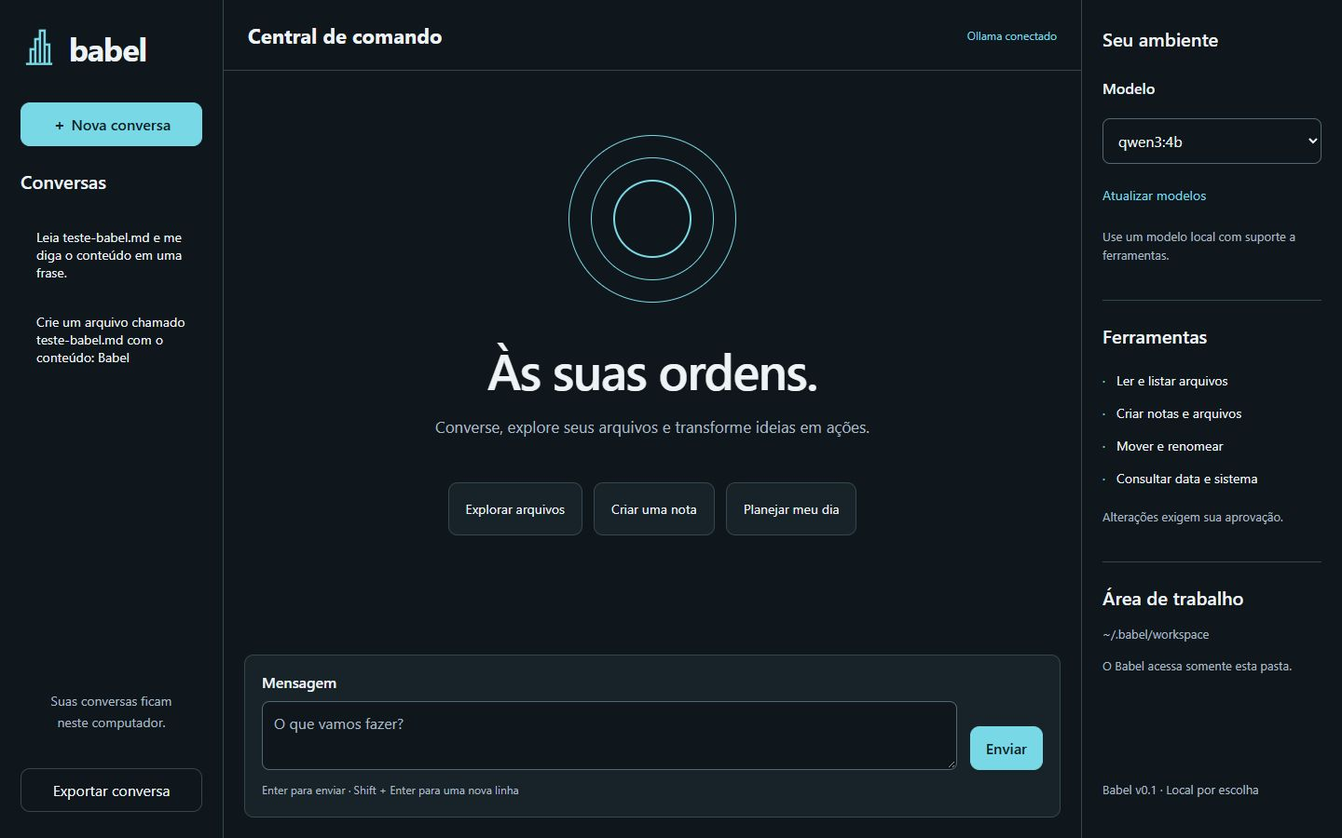
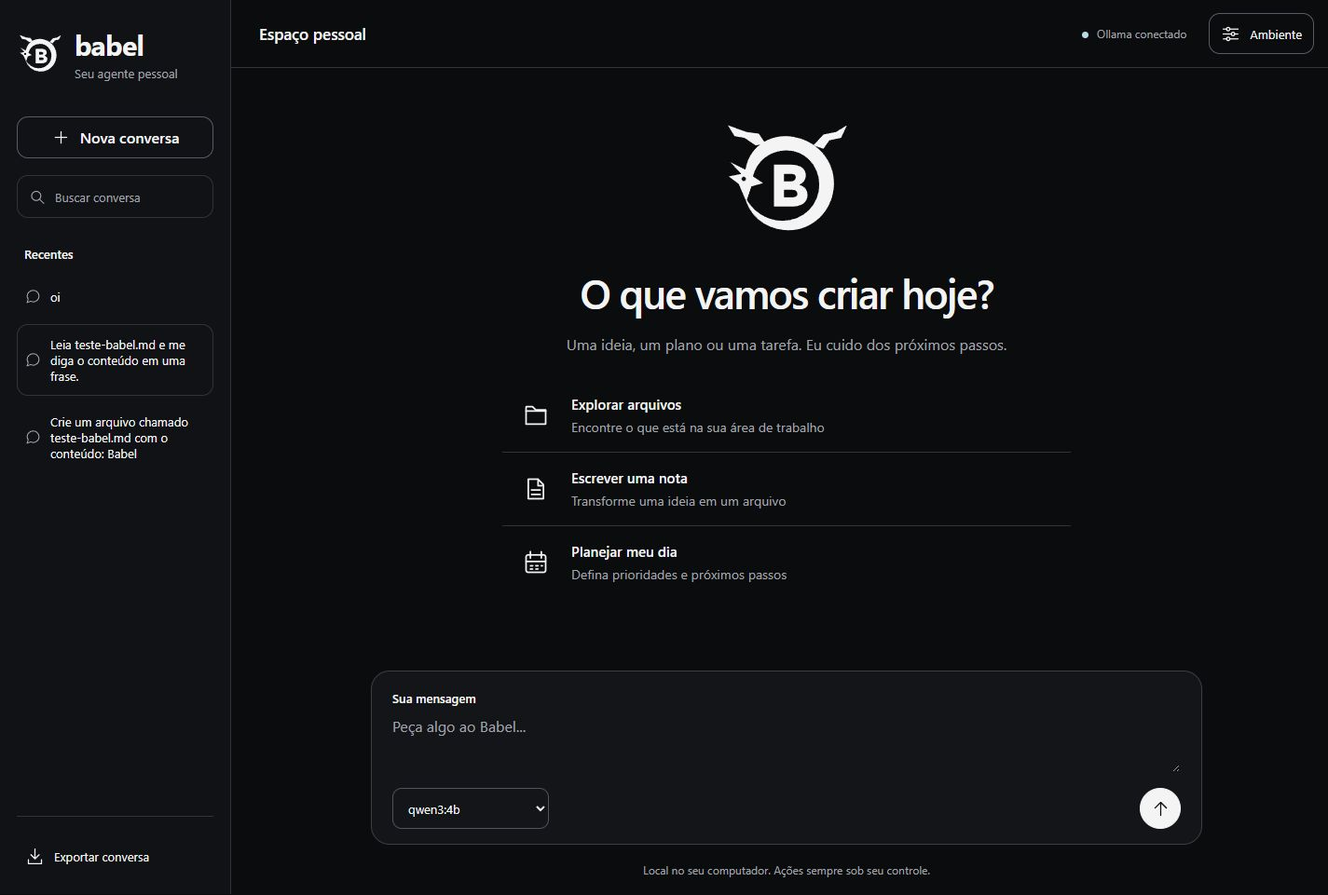
design: reformula Babel com identidade ouroboros e interface monocromatica

diff --git a/babel_agent/web/style.css b/babel_agent/web/style.css
@@ -1,6 +1,153 @@
-:root{color-scheme:dark;--bg:#10171c;--panel:#182229;--ink:#eef4f6;--muted:#aabac3;--line:#34464f;--accent:#79d8e5;--error:#ffb5a9;--radius:10px;font-family:"Segoe UI",system-ui,sans-serif;color:var(--ink);background:var(--bg)}
-*{box-sizing:border-box}body{margin:0;display:grid;grid-template-columns:240px minmax(0,1fr) 280px;min-height:100dvh}button,textarea,select{font:inherit}button,select{min-height:44px}button{cursor:pointer;border:1px solid var(--line);border-radius:var(--radius);padding:12px 16px;color:var(--ink);background:var(--panel);transition:background .18s,border-color .18s}button:hover{border-color:var(--accent);background:#24343d}button:active{background:#30434d}button:disabled{opacity:.5;cursor:wait}button.primary{background:var(--accent);color:#092027;border-color:var(--accent);font-weight:600}button.primary:hover{background:#a1e7f0}button.secondary{background:transparent}button.text-button{padding:8px 0;border:0;background:none;color:var(--accent);text-align:left;font-size:14px}button:focus-visible,a:focus-visible,textarea:focus-visible,select:focus-visible{outline:2px solid var(--accent);outline-offset:4px}h1,h2,p{margin-top:0}h2{font-size:20px;font-weight:600}p{color:var(--muted);line-height:1.6}aside{padding:28px 22px}.sidebar{border-right:1px solid var(--line);display:flex;flex-direction:column;gap:24px;max-height:100dvh;position:sticky;top:0}.brand{font-size:34px;font-weight:650;display:flex;gap:12px;align-items:center;color:var(--ink);text-decoration:none;letter-spacing:-1px;margin-bottom:10px}.sidebar h2{margin:0}.sidebar nav{display:flex;flex-direction:column;gap:8px;overflow:auto}.sidebar nav button{text-align:left;overflow-wrap:anywhere;background:none;border-color:transparent;font-size:14px}.sidebar nav button[aria-current=true]{background:var(--panel);border-color:var(--line)}.privacy{margin-top:auto;font-size:14px;text-align:center;padding-top:24px}main{display:flex;flex-direction:column;min-width:0;min-height:100dvh}header{min-height:76px;padding:20px 26px;border-bottom:1px solid var(--line);display:flex;align-items:center;justify-content:space-between;gap:12px}header h1{font-size:22px;margin:0}#status{font-size:12px;color:var(--muted)}#status.online{color:var(--accent)}#conversation{flex:1;padding:24px 30px;min-height:500px}#welcome{min-height:520px;display:flex;align-items:center;justify-content:center;flex-direction:column;text-align:center;padding:28px 0}#welcome[hidden]{display:none}.core{width:180px;height:180px;position:relative;margin-bottom:36px}.core i{border:1px solid var(--accent);border-radius:50%;position:absolute;inset:0}.core i:nth-child(2){inset:24px}.core i:nth-child(3){inset:48px;border-width:2px}#welcome h2{font-size:clamp(36px,4vw,54px);letter-spacing:-1.5px;margin-bottom:12px}#welcome p{max-width:520px;font-size:17px}.suggestions{display:flex;gap:12px;margin-top:28px;flex-wrap:wrap;justify-content:center}.suggestions button{font-size:14px;padding:18px}#composer{margin:0 22px 22px;padding:18px;background:var(--panel);border:1px solid var(--line);border-radius:var(--radius)}label{display:block;margin-bottom:10px;font-weight:600}.input-row{display:flex;align-items:flex-end;gap:14px}textarea,select{color:var(--ink);background:var(--bg);border:1px solid #526671;border-radius:8px;padding:12px;min-width:0}textarea{width:100%;resize:vertical;min-height:74px;max-height:240px}textarea::placeholder{color:var(--muted)}#feedback{font-size:12px;margin:12px 0 0;min-height:20px}#feedback.error{color:var(--error)}.environment{border-left:1px solid var(--line);display:flex;flex-direction:column;gap:12px}.environment select{width:100%}.environment section{border-top:1px solid var(--line);padding-top:24px;margin-top:12px}.environment p{font-size:13px;overflow-wrap:anywhere}.environment ul{list-style:none;padding:0;line-height:2.5;font-size:14px}.environment li::before{content:'·';color:var(--accent);margin-right:12px}.version{margin-top:auto;padding-top:36px}.message{margin:0 auto 24px;max-width:800px;overflow-wrap:anywhere}.message h3{font-size:13px;color:var(--accent);margin:0 0 10px}.message .content{white-space:pre-wrap;line-height:1.7;font-size:15px}.message.user{background:var(--panel);padding:18px;border-radius:var(--radius)}.message.user h3{color:var(--muted)}details{border-left:2px solid var(--line);padding:8px 14px;margin:12px 0;color:var(--muted);font-size:13px}summary{cursor:pointer;min-height:32px}pre{white-space:pre-wrap;overflow-wrap:anywhere;font-size:13px;max-height:360px;overflow:auto}#approval{border:1px solid var(--accent);border-radius:var(--radius);padding:22px;margin:24px 0;background:var(--panel)}#approval p{font-size:14px}#approval .actions{display:flex;gap:12px}.skip{position:absolute;top:-80px;left:12px;padding:12px;z-index:5;background:var(--accent);color:var(--bg)}.skip:focus{top:12px}
-@media(min-width:1600px){#welcome{min-height:640px}}
-@media(max-width:1150px){body{grid-template-columns:200px minmax(0,1fr)}.environment{grid-column:1/-1;border-left:0;border-top:1px solid var(--line);display:grid;grid-template-columns:1fr 1fr;gap:16px 32px}.environment section{margin:0}.environment h2,.environment label,.environment select,.environment .text-button,.environment #model-help{grid-column:1}.environment section{grid-column:2}.environment .version{padding:0}.sidebar{padding:24px 16px}header{flex-wrap:wrap}}
-@media(max-width:650px){body{display:block}.sidebar{position:static;max-height:none;display:grid;grid-template-columns:1fr 1fr;padding:16px;gap:12px;border-right:0;border-bottom:1px solid var(--line)}.brand{font-size:26px;margin:0}.brand img{width:28px;height:36px}.sidebar h2,.privacy{display:none}.sidebar nav{grid-column:1/-1;max-height:140px}.sidebar #export{grid-column:1/-1}main{min-height:78dvh}header{padding:18px}header h1{font-size:20px}#conversation{padding:18px;min-height:360px}#welcome{min-height:440px;padding-top:18px}.core{width:120px;height:120px;margin-bottom:24px}.core i:nth-child(2){inset:16px}.core i:nth-child(3){inset:32px}.suggestions{gap:8px;margin-top:16px;width:100%}.suggestions button{width:100%;padding:12px}#composer{margin:0 16px 16px;padding:14px}.input-row{flex-direction:column;align-items:stretch}.environment{display:block;padding:24px}.environment section{margin-top:24px}#approval .actions{flex-direction:column}}
-@media(prefers-reduced-motion:reduce){*{transition:none!important;scroll-behavior:auto!important}}
+:root {
+  color-scheme: dark;
+  --bg: #0b0c0e;
+  --panel: #131518;
+  --hover: #1d2025;
+  --ink: #f4f4f5;
+  --muted: #a2a5ad;
+  --line: #303339;
+  --accent: #b6dce3;
+  --error: #ffb5a9;
+  --radius: 12px;
+  font-family: "Segoe UI", system-ui, sans-serif;
+  color: var(--ink);
+  background: var(--bg);
+  font-synthesis: none;
+}
+* { box-sizing: border-box; }
+body { margin: 0; display: grid; grid-template-columns: 248px minmax(0, 1fr); min-height: 100dvh; }
+button, textarea, select, input { font: inherit; }
+button, select, input { min-height: 44px; }
+button { cursor: pointer; border: 1px solid transparent; border-radius: var(--radius); padding: 11px 16px; color: var(--ink); background: var(--panel); display: inline-flex; align-items: center; justify-content: center; gap: 10px; transition: background .18s, border-color .18s; }
+button:hover { background: var(--hover); border-color: #555a63; }
+button:active { background: #2a2e35; }
+button:disabled { opacity: .45; cursor: not-allowed; }
+button.primary, .send { background: var(--ink); color: var(--bg); border-color: var(--ink); font-weight: 600; }
+button.primary:hover, .send:hover { background: #d9dce1; }
+button.outline { border-color: #565b65; background: transparent; }
+button.outline:hover { background: var(--hover); border-color: var(--ink); }
+button.quiet { background: transparent; justify-content: flex-start; }
+button.icon-button { padding: 10px; background: transparent; }
+button:focus-visible, a:focus-visible, textarea:focus-visible, select:focus-visible, input:focus-visible, summary:focus-visible { outline: 2px solid var(--accent); outline-offset: 4px; }
+h1, h2, h3, p { margin-top: 0; }
+p { color: var(--muted); line-height: 1.65; }
+.icon { width: 21px; height: 21px; flex-shrink: 0; fill: none; stroke: currentColor; stroke-width: 1.5; stroke-linecap: round; stroke-linejoin: round; }
+.icon-library { position: absolute; width: 0; height: 0; overflow: hidden; }
+.sidebar { border-right: 1px solid var(--line); background: #101215; padding: 28px 18px 18px; display: flex; flex-direction: column; height: 100dvh; position: sticky; top: 0; }
+.brand { display: flex; gap: 12px; align-items: center; color: var(--ink); text-decoration: none; margin-bottom: 38px; }
+.brand span { font-size: 30px; font-weight: 650; letter-spacing: -.7px; }
+.brand small { display: block; font-size: 13px; font-weight: 400; letter-spacing: 0; color: var(--muted); margin-top: 2px; }
+#new { width: 100%; margin-bottom: 18px; font-weight: 550; }
+.sr-only { position: absolute; width: 1px; height: 1px; padding: 0; overflow: hidden; clip-path: inset(50%); white-space: nowrap; }
+.search-field { display: flex; align-items: center; gap: 8px; border: 1px solid var(--line); border-radius: var(--radius); padding: 0 12px; margin-bottom: 30px; }
+.search-field .icon { color: var(--muted); width: 18px; }
+.search-field input { border: 0; background: none; color: var(--ink); width: 100%; min-width: 0; font-size: 13px; }
+.search-field input::placeholder { color: var(--muted); }
+.section-label { font-size: 13px; font-weight: 600; margin: 0 8px 14px; }
+.sidebar nav { display: flex; flex-direction: column; gap: 6px; overflow: auto; }
+.sidebar nav button { width: 100%; text-align: left; justify-content: flex-start; overflow-wrap: anywhere; background: transparent; font-size: 13px; padding: 12px 8px; }
+.sidebar nav button .icon { width: 17px; color: var(--muted); }
+.sidebar nav button[aria-current=true] { background: var(--hover); }
+.empty-history { padding: 8px; font-size: 13px; }
+.sidebar-footer { margin-top: auto; padding-top: 20px; border-top: 1px solid var(--line); }
+.sidebar-footer button { width: 100%; font-size: 13px; padding-left: 8px; }
+main { min-width: 0; }
+.topbar { min-height: 72px; padding: 14px 30px; border-bottom: 1px solid var(--line); display: flex; align-items: center; gap: 16px; }
+.topbar h1 { font-size: 17px; font-weight: 550; margin: 0; flex: 1; min-width: 0; overflow: hidden; text-overflow: ellipsis; white-space: nowrap; }
+.topbar-actions { display: flex; align-items: center; gap: 24px; }
+.topbar-actions button { font-size: 13px; padding: 8px 12px; }
+#status { font-size: 12px; color: var(--muted); white-space: nowrap; }
+#status::before { content: ''; display: inline-block; width: 7px; height: 7px; margin-right: 9px; border-radius: 50%; background: #777c86; }
+#status.online::before { background: var(--accent); }
+.mobile-menu, .mobile-break { display: none; }
+.stage { max-width: 980px; min-height: calc(100dvh - 72px); margin: 0 auto; padding: 0 44px; display: flex; flex-direction: column; }
+#conversation { flex: 1; padding-top: 28px; min-width: 0; }
+#welcome { display: flex; flex-direction: column; align-items: center; text-align: center; padding: 16px 0 32px; }
+[hidden], #welcome[hidden] { display: none !important; }
+.hero-mark { width: 144px; height: 144px; margin: 4px 0 24px; }
+#welcome h2 { font-size: clamp(30px, 3.3vw, 44px); line-height: 1.18; letter-spacing: -1.6px; font-weight: 600; margin-bottom: 16px; }
+#welcome > p { font-size: 16px; margin-bottom: 24px; }
+.suggestions { width: min(100%, 610px); text-align: left; }
+.suggestions button { width: 100%; border-radius: 0; background: transparent; padding: 17px 22px; justify-content: flex-start; border: 0; border-bottom: 1px solid var(--line); gap: 24px; }
+.suggestions button:last-child { border-bottom: 0; }
+.suggestions button:hover { background: var(--panel); }
+.suggestions .icon { width: 28px; height: 28px; }
+.suggestions span { display: block; text-align: left; }
+.suggestions strong { display: block; font-size: 15px; font-weight: 600; }
+.suggestions small { display: block; margin-top: 5px; font-size: 14px; color: var(--muted); }
+.composer-area { padding: 20px 0 16px; }
+#composer { padding: 20px 22px 16px; background: var(--panel); border: 1px solid #3b3e45; border-radius: 20px; }
+#composer:focus-within { border-color: #747b87; }
+label { display: block; font-size: 13px; font-weight: 550; margin-bottom: 10px; }
+textarea { width: 100%; min-height: 62px; max-height: 240px; resize: vertical; border: 0; padding: 0; color: var(--ink); background: transparent; line-height: 1.5; }
+textarea::placeholder { color: var(--muted); }
+textarea:focus-visible { outline: none; }
+.composer-toolbar { display: flex; align-items: center; justify-content: space-between; gap: 12px; margin-top: 12px; }
+select { color: var(--ink); background: var(--panel); border: 1px solid #4e535c; border-radius: 10px; padding: 8px 30px 8px 12px; max-width: 280px; font-size: 13px; }
+.send { width: 44px; height: 44px; border-radius: 50%; padding: 10px; }
+#feedback { font-size: 12px; text-align: center; min-height: 20px; margin: 18px 0 0; }
+#feedback.error { color: var(--error); }
+.message { margin: 8px 0 30px; overflow-wrap: anywhere; }
+.message h3 { font-size: 12px; font-weight: 600; color: var(--muted); margin: 0 0 12px; }
+.message .content { white-space: pre-wrap; line-height: 1.75; font-size: 15px; }
+.message.user { margin-left: auto; background: var(--panel); padding: 18px 22px; border-radius: 16px; max-width: 88%; }
+.message.assistant { padding: 0 4px; }
+details { border-left: 2px solid var(--line); padding: 10px 16px; margin: 16px 0; color: var(--muted); font-size: 13px; }
+summary { cursor: pointer; min-height: 32px; padding-top: 7px; }
+pre { white-space: pre-wrap; overflow-wrap: anywhere; font: 13px/1.6 Consolas, monospace; max-height: 360px; overflow: auto; }
+#approval { border: 1px solid #5e7680; border-radius: 16px; padding: 24px; margin: 24px 0; background: var(--panel); }
+#approval h2 { font-size: 19px; }
+#approval p { font-size: 14px; }
+#approval .actions { display: flex; gap: 12px; margin-top: 20px; }
+.drawer { position: fixed; inset: 0 0 0 auto; margin: 0; width: min(420px, 100%); max-width: 100%; height: 100dvh; max-height: 100dvh; border: 0; border-left: 1px solid var(--line); background: var(--panel); color: var(--ink); padding: 28px; }
+.drawer::backdrop { background: #0009; backdrop-filter: blur(3px); }
+.dialog-heading { display: flex; justify-content: space-between; align-items: center; gap: 16px; }
+.dialog-heading h2 { font-size: 23px; margin: 0; }
+.drawer > p { font-size: 14px; margin-top: 16px; }
+.drawer section { border-top: 1px solid var(--line); margin-top: 26px; padding-top: 24px; }
+.drawer h3 { font-size: 15px; }
+.drawer p, .drawer li { font-size: 13px; }
+.drawer ul { padding-left: 20px; line-height: 2.3; }
+.path { overflow-wrap: anywhere; font-family: Consolas, monospace; }
+.version { margin-top: 28px; }
+.skip { position: absolute; top: -80px; left: 12px; padding: 12px; z-index: 5; background: var(--ink); color: var(--bg); }
+.skip:focus { top: 12px; }
+@media (min-height: 980px) { #welcome { padding-top: 64px; } }
+@media (max-width: 1050px) {
+  body { grid-template-columns: 218px minmax(0, 1fr); }
+  .sidebar { padding-left: 14px; padding-right: 14px; }
+  .stage { padding: 0 24px; }
+  .topbar { padding: 14px 24px; }
+  .topbar-actions { gap: 12px; }
+  #status { font-size: 11px; }
+  .hero-mark { width: 120px; height: 120px; }
+}
+@media (max-width: 720px) {
+  body { display: block; }
+  .sidebar { display: none; position: static; height: auto; max-height: 65dvh; border-right: 0; border-bottom: 1px solid var(--line); }
+  body.menu-open .sidebar { display: flex; }
+  .brand { margin-bottom: 18px; }
+  .sidebar nav { max-height: 180px; }
+  .sidebar-footer { margin-top: 16px; }
+  .mobile-menu { display: inline-flex; }
+  .topbar { padding: 10px 12px; gap: 8px; }
+  .topbar h1 { font-size: 14px; }
+  #status { display: none; }
+  .stage { padding: 0 20px; }
+  #welcome { padding-top: 12px; }
+  #welcome h2 { font-size: 32px; letter-spacing: -1px; max-width: 300px; }
+  #welcome > p { font-size: 14px; max-width: 300px; }
+  .mobile-break { display: initial; }
+  .hero-mark { width: 112px; height: 112px; margin-bottom: 24px; }
+  .suggestions button { padding: 16px 4px; gap: 16px; }
+  .suggestions strong { font-size: 14px; }
+  .suggestions small { font-size: 12px; line-height: 1.5; }
+  .suggestions .icon { width: 24px; height: 24px; }
+  #composer { padding: 18px 16px 14px; }
+  textarea { font-size: 16px; }
+  select { max-width: 200px; }
+  #feedback { font-size: 11px; }
+  #approval { padding: 18px; }
+  #approval .actions { flex-direction: column; }
+}
+@media (prefers-reduced-motion: reduce) { * { transition: none !important; scroll-behavior: auto !important; } }

diff --git a/babel_agent/web/index.html b/babel_agent/web/index.html
@@ -3,49 +3,71 @@
 <head>
   <meta charset="utf-8"><meta name="viewport" content="width=device-width,initial-scale=1">
   <meta name="description" content="Babel, seu agente pessoal de IA local.">
-  <meta name="babel-token" content="__BABEL_TOKEN__"><meta name="theme-color" content="#10171c">
-  <title>Babel · Central de comando</title>
+  <meta name="babel-token" content="__BABEL_TOKEN__"><meta name="theme-color" content="#0b0c0e">
+  <title>Babel · Seu espaço pessoal</title>
   <link rel="icon" href="/favicon.svg"><link rel="stylesheet" href="/style.css">
   <script src="/app.js" defer></script>
 </head>
 <body>
+<svg class="icon-library" xmlns="http://www.w3.org/2000/svg" aria-hidden="true">
+  <symbol id="i-plus" viewBox="0 0 24 24"><path d="M12 5v14M5 12h14"/></symbol>
+  <symbol id="i-search" viewBox="0 0 24 24"><circle cx="10.5" cy="10.5" r="6.5"/><path d="m16 16 5 5"/></symbol>
+  <symbol id="i-chat" viewBox="0 0 24 24"><path d="M21 11.5a9 9 0 0 1-9 8.5 10 10 0 0 1-4-1l-5 2 1.5-5A8 8 0 0 1 3 11.5a9 9 0 0 1 18 0Z"/></symbol>
+  <symbol id="i-folder" viewBox="0 0 24 24"><path d="M3 7V4h6l3 3h9v13H3V7Z"/><path d="M3 8h18"/></symbol>
+  <symbol id="i-note" viewBox="0 0 24 24"><path d="M5 3h9l5 5v13H5V3Zm9 0v6h5M8 13h8M8 17h8"/></symbol>
+  <symbol id="i-calendar" viewBox="0 0 24 24"><rect x="3" y="5" width="18" height="16" rx="2"/><path d="M7 2v6m10-6v6M3 11h18M7 15h2m3 0h2m3 0h1M7 18h2m3 0h2"/></symbol>
+  <symbol id="i-sliders" viewBox="0 0 24 24"><path d="M3 6h4m4 0h10M3 12h10m4 0h4M3 18h4m4 0h10"/><circle cx="9" cy="6" r="2"/><circle cx="15" cy="12" r="2"/><circle cx="9" cy="18" r="2"/></symbol>
+  <symbol id="i-download" viewBox="0 0 24 24"><path d="M12 3v12m-5-5 5 5 5-5M4 16v5h16v-5"/></symbol>
+  <symbol id="i-arrow" viewBox="0 0 24 24"><path d="M12 20V4m-7 7 7-7 7 7"/></symbol>
+  <symbol id="i-menu" viewBox="0 0 24 24"><path d="M4 6h16M4 12h16M4 18h16"/></symbol>
+  <symbol id="i-close" viewBox="0 0 24 24"><path d="m6 6 12 12M6 18 18 6"/></symbol>
+</svg>
 <a class="skip" href="#message">Ir para a mensagem</a>
-<aside class="sidebar">
-  <a class="brand" href="/" aria-label="Babel, início"><img src="/favicon.svg" alt="" width="40" height="48">babel</a>
-  <button id="new" class="primary">＋ Nova conversa</button>
-  <h2>Conversas</h2><nav id="sessions" aria-label="Conversas salvas"></nav>
-  <p class="privacy">Suas conversas ficam<br>neste computador.</p>
-  <button id="export" class="secondary">Exportar conversa</button>
+<aside class="sidebar" id="sidebar">
+  <a class="brand" href="/" aria-label="Babel, início"><img src="/favicon.svg" alt="" width="50" height="50"><span>babel<small>Seu agente pessoal</small></span></a>
+  <button id="new" class="outline"><svg class="icon"><use href="#i-plus"/></svg>Nova conversa</button>
+  <label class="sr-only" for="search">Buscar conversa</label>
+  <div class="search-field"><svg class="icon"><use href="#i-search"/></svg><input id="search" type="search" placeholder="Buscar conversa" autocomplete="off"></div>
+  <h2 class="section-label">Recentes</h2><nav id="sessions" aria-label="Conversas salvas"></nav>
+  <div class="sidebar-footer"><button id="export" class="quiet"><svg class="icon"><use href="#i-download"/></svg>Exportar conversa</button></div>
 </aside>
 <main>
-  <header><h1>Central de comando</h1><span id="status" role="status">Conectando ao Ollama…</span></header>
-  <div id="conversation">
-    <section id="welcome">
-      <div class="core" aria-hidden="true"><i></i><i></i><i></i></div>
-      <h2>Às suas ordens.</h2>
-      <p>Converse, explore seus arquivos e transforme ideias em ações.</p>
-      <div class="suggestions">
-        <button data-prompt="Liste os arquivos da minha área de trabalho.">Explorar arquivos</button>
-        <button data-prompt="Crie uma nota em notas/ideias.md com três ideias de projetos de programação.">Criar uma nota</button>
-        <button data-prompt="Me ajude a planejar meu dia. Primeiro pergunte quais são minhas prioridades.">Planejar meu dia</button>
-      </div>
-    </section>
-    <section id="messages" aria-label="Mensagens"></section>
-    <section id="approval" aria-label="Aprovação de ação" hidden></section>
+  <header class="topbar">
+    <button id="menu" class="icon-button mobile-menu" aria-label="Abrir conversas" aria-controls="sidebar" aria-expanded="false"><svg class="icon"><use href="#i-menu"/></svg></button>
+    <h1 id="page-title">Espaço pessoal</h1>
+    <div class="topbar-actions"><span id="status" role="status">Conectando…</span><button id="environment-open" class="outline"><svg class="icon"><use href="#i-sliders"/></svg>Ambiente</button></div>
+  </header>
+  <div class="stage">
+    <div id="conversation">
+      <section id="welcome">
+        <img class="hero-mark" src="/favicon.svg" width="144" height="144" alt="">
+        <h2>O que vamos criar hoje?</h2>
+        <p>Uma ideia, um plano ou uma tarefa.<br class="mobile-break"> Eu cuido dos próximos passos.</p>
+        <div class="suggestions">
+          <button data-prompt="Liste os arquivos da minha área de trabalho."><svg class="icon"><use href="#i-folder"/></svg><span><strong>Explorar arquivos</strong><small>Encontre o que está na sua área de trabalho</small></span></button>
+          <button data-prompt="Crie uma nota em notas/ideias.md com três ideias de projetos de programação."><svg class="icon"><use href="#i-note"/></svg><span><strong>Escrever uma nota</strong><small>Transforme uma ideia em um arquivo</small></span></button>
+          <button data-prompt="Me ajude a planejar meu dia. Primeiro pergunte quais são minhas prioridades."><svg class="icon"><use href="#i-calendar"/></svg><span><strong>Planejar meu dia</strong><small>Defina prioridades e próximos passos</small></span></button>
+        </div>
+      </section>
+      <section id="messages" aria-label="Mensagens"></section>
+      <section id="approval" aria-label="Aprovação de ação" hidden></section>
+    </div>
+    <div class="composer-area">
+      <form id="composer">
+        <label for="message">Sua mensagem</label>
+        <textarea id="message" rows="2" maxlength="16000" placeholder="Peça algo ao Babel..." required></textarea>
+        <div class="composer-toolbar"><div class="model-field"><label class="sr-only" for="model">Modelo</label><select id="model"><option value="">Carregando…</option></select></div><button id="send" class="send" type="submit" aria-label="Enviar mensagem" title="Enviar mensagem"><svg class="icon"><use href="#i-arrow"/></svg></button></div>
+      </form>
+      <p id="feedback" role="status">Local no seu computador. Ações sempre sob seu controle.</p>
+    </div>
   </div>
-  <form id="composer">
-    <label for="message">Mensagem</label>
-    <div class="input-row"><textarea id="message" rows="2" maxlength="16000" placeholder="O que vamos fazer?" required></textarea><button id="send" class="primary" type="submit">Enviar</button></div>
-    <p id="feedback" role="status">Enter para enviar · Shift + Enter para uma nova linha</p>
-  </form>
 </main>
-<aside class="environment">
-  <h2>Seu ambiente</h2>
-  <label for="model">Modelo</label><select id="model" aria-describedby="model-help"><option value="">Carregando…</option></select>
-  <button id="refresh" class="text-button">Atualizar modelos</button>
-  <p id="model-help">Use um modelo local com suporte a ferramentas.</p>
-  <section><h2>Ferramentas</h2><ul><li>Ler e listar arquivos</li><li>Criar notas e arquivos</li><li>Mover e renomear</li><li>Consultar data e sistema</li></ul><p>Alterações exigem sua aprovação.</p></section>
-  <section><h2>Área de trabalho</h2><p id="workspace"></p><p>O Babel acessa somente esta pasta.</p></section>
-  <p class="version">Babel v0.1 · Local por escolha</p>
-</aside>
+<dialog id="environment" class="drawer" aria-labelledby="environment-title">
+  <div class="dialog-heading"><h2 id="environment-title">Seu ambiente</h2><button id="environment-close" class="icon-button" aria-label="Fechar ambiente"><svg class="icon"><use href="#i-close"/></svg></button></div>
+  <p>Seu modelo, seus arquivos, suas decisões.</p>
+  <section><h3>Modelo local</h3><p id="model-help">Selecione um modelo no campo de mensagem. Ele precisa oferecer suporte a ferramentas.</p><button id="refresh" class="outline">Atualizar modelos</button></section>
+  <section><h3>Ferramentas disponíveis</h3><ul><li>Ler e listar arquivos</li><li>Criar notas e arquivos</li><li>Mover e renomear</li><li>Consultar data e sistema</li></ul><p>Alterações exigem sua aprovação individual.</p></section>
+  <section><h3>Área de trabalho</h3><p id="workspace" class="path"></p><p>O Babel acessa somente esta pasta.</p></section>
+  <p class="version">Babel · Inteligência local</p>
+</dialog>
 </body></html>

diff --git a/babel_agent/web/app.js b/babel_agent/web/app.js
@@ -3,6 +3,13 @@ const $ = (id) => document.getElementById(id);
 const token = document.querySelector('meta[name="babel-token"]').content;
 let session = null;
 let busy = false;
+let conversations = [];
+function icon(name) {
+  const svg = document.createElementNS('http://www.w3.org/2000/svg', 'svg');
+  svg.classList.add('icon'); svg.setAttribute('aria-hidden', 'true');
+  const use = document.createElementNS(svg.namespaceURI, 'use');
+  use.setAttribute('href', '#i-' + name); svg.append(use); return svg;
+}
 async function api(path, data) {
   const response = await fetch('/api/' + path, {
     method: data === undefined ? 'GET' : 'POST',
@@ -26,22 +33,31 @@ function feedback(message, error = false) {
 function setBusy(value) {
   busy = value;
   document.querySelectorAll('button,select,textarea').forEach(el => {el.disabled = value;});
+  for (const id of ['menu', 'environment-open', 'environment-close']) $(id).disabled = false;
   $('send').disabled = value || !!session?.pending || !$('model').value;
-  $('send').textContent = value ? 'Pensando…' : 'Enviar';
+  $('send').setAttribute('aria-label', value ? 'Pensando…' : 'Enviar mensagem');
   $('conversation').setAttribute('aria-busy', String(value));
 }
 async function history() {
-  const list = await api('sessions');
+  conversations = await api('sessions');
+  renderHistory();
+}
+function renderHistory() {
+  const query = $('search').value.trim().toLocaleLowerCase('pt-BR');
+  const list = conversations.filter(item => item.title.toLocaleLowerCase('pt-BR').includes(query));
   $('sessions').replaceChildren();
   list.forEach(item => {
-    const button = text('button', item.title);
+    const button = text('button', '');
+    button.append(icon('chat'), text('span', item.title));
     button.setAttribute('aria-current', String(item.id === session?.id));
     button.disabled = busy;
-    button.onclick = () => perform(async () => { session = await api('sessions/' + item.id); render(); await history(); });
+    button.onclick = () => perform(async () => { session = await api('sessions/' + item.id); render(); await history(); closeMenu(); });
     $('sessions').append(button);
   });
+  if (!list.length) $('sessions').append(text('p', query ? 'Nenhuma conversa encontrada.' : 'Sua próxima ideia começa aqui.', 'empty-history'));
 }
 function render() {
+  $('page-title').textContent = session?.messages.length ? session.title : 'Espaço pessoal';
   $('welcome').hidden = !!session?.messages.length;
   $('messages').replaceChildren();
   for (const message of session?.messages || []) {
@@ -103,6 +119,11 @@ async function refresh() {
   else if (!status.models.length) feedback('Instale um modelo: ollama pull qwen3:4b. Depois atualize a lista.', true);
 }
 $('new').onclick = () => perform(async () => { session = await api('sessions', {}); render(); await history(); feedback('Nova conversa pronta.'); $('message').value = ''; });
+$('search').oninput = renderHistory;
+function closeMenu() { document.body.classList.remove('menu-open'); $('menu').setAttribute('aria-expanded', 'false'); }
+$('menu').onclick = () => { const open = document.body.classList.toggle('menu-open'); $('menu').setAttribute('aria-expanded', String(open)); };
+$('environment-open').onclick = () => $('environment').showModal();
+$('environment-close').onclick = () => $('environment').close();
 $('refresh').onclick = () => perform(refresh);
 $('model').onchange = () => { localStorage.setItem('babel-model', $('model').value); setBusy(false); };
 $('composer').onsubmit = (event) => {

diff --git a/docs/design.md b/docs/design.md
@@ -1,12 +1,12 @@
 # Direção visual
 
-O Babel usa um painel de comando sóbrio: navegação à esquerda, conversa central e ambiente à direita. A referência foi um conceito gerado com Image Gen; a interface final é implementada em HTML/CSS, sem imagens externas em tempo de execução.
+O Babel usa uma interface monocromática: navegação à esquerda, conversa central e ambiente em um painel que abre sob demanda. A referência foi um conceito gerado com Image Gen a partir da direção enviada pelo usuário; a interface final é implementada em HTML/CSS/SVG, sem imagens externas em tempo de execução.
 
-- Fundo grafite `#10171c`, superfícies `#182229`, bordas `#34464f`.
-- Texto `#eef4f6`, secundário `#aabac3`, ação `#79d8e5`.
+- Fundo `#0b0c0e`, superfícies `#131518`, bordas `#303339`.
+- Texto `#f4f4f5`, secundário `#a2a5ad`, conexão `#b6dce3`.
 - Segoe UI/system-ui, controles com pelo menos 44 px de altura.
-- O núcleo de três círculos é a assinatura visual; ele permanece estático para não simular atividade.
-- Em telas menores, o ambiente aparece abaixo da conversa; no celular, a navegação passa para o topo.
-- Configurações sem função foram substituídas por exportação de conversa. Ferramentas aparecem como capacidades, sem interruptores fictícios.
+- A marca é um ciclo em forma de serpente geométrica em torno da letra B, inspirado na referência fornecida e desenhado em SVG.
+- No celular, as conversas ficam em um menu expansível. O painel Ambiente é um diálogo nativo com foco contido e fechamento por Escape.
+- Busca por título, sugestões com descrições e seletor de modelo junto da mensagem evitam controles sem função.
 
 O screenshot `babel.png` mostra o aplicativo real, não o conceito.
